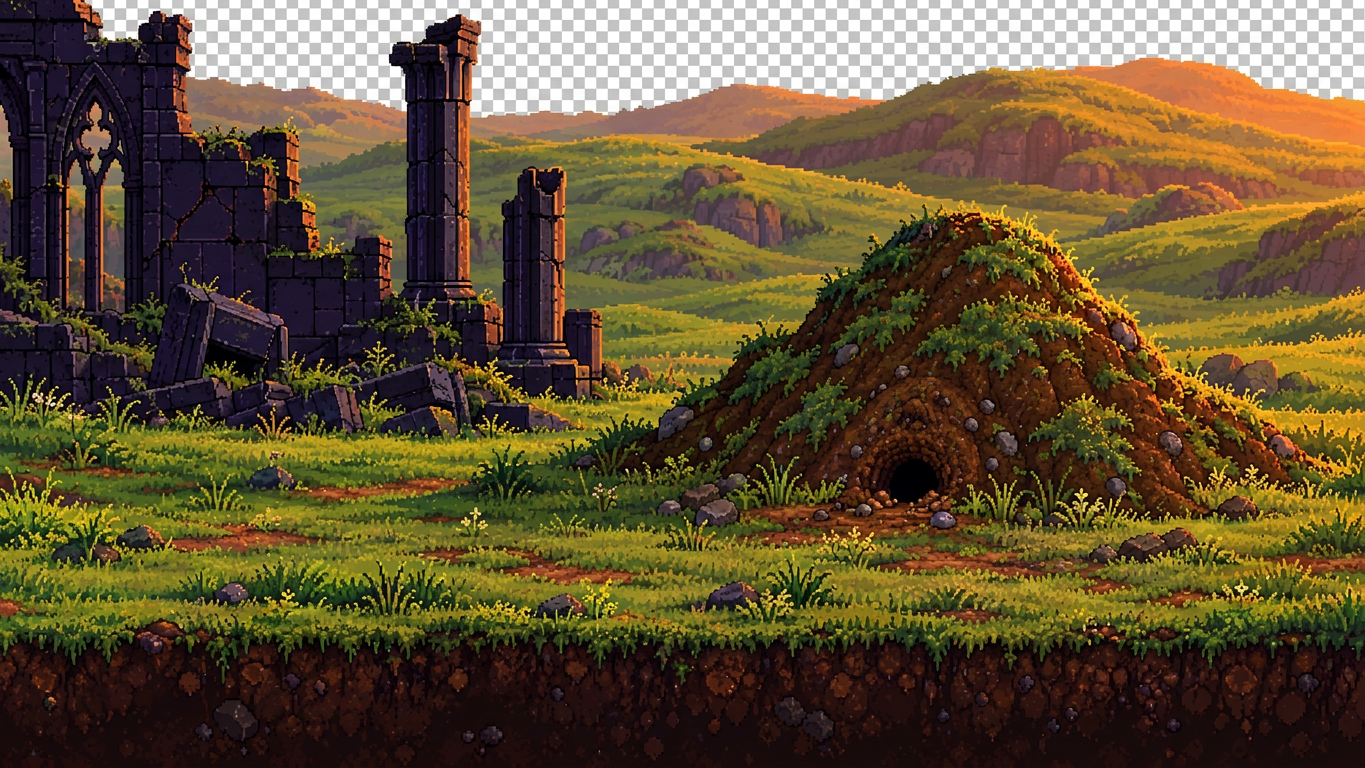
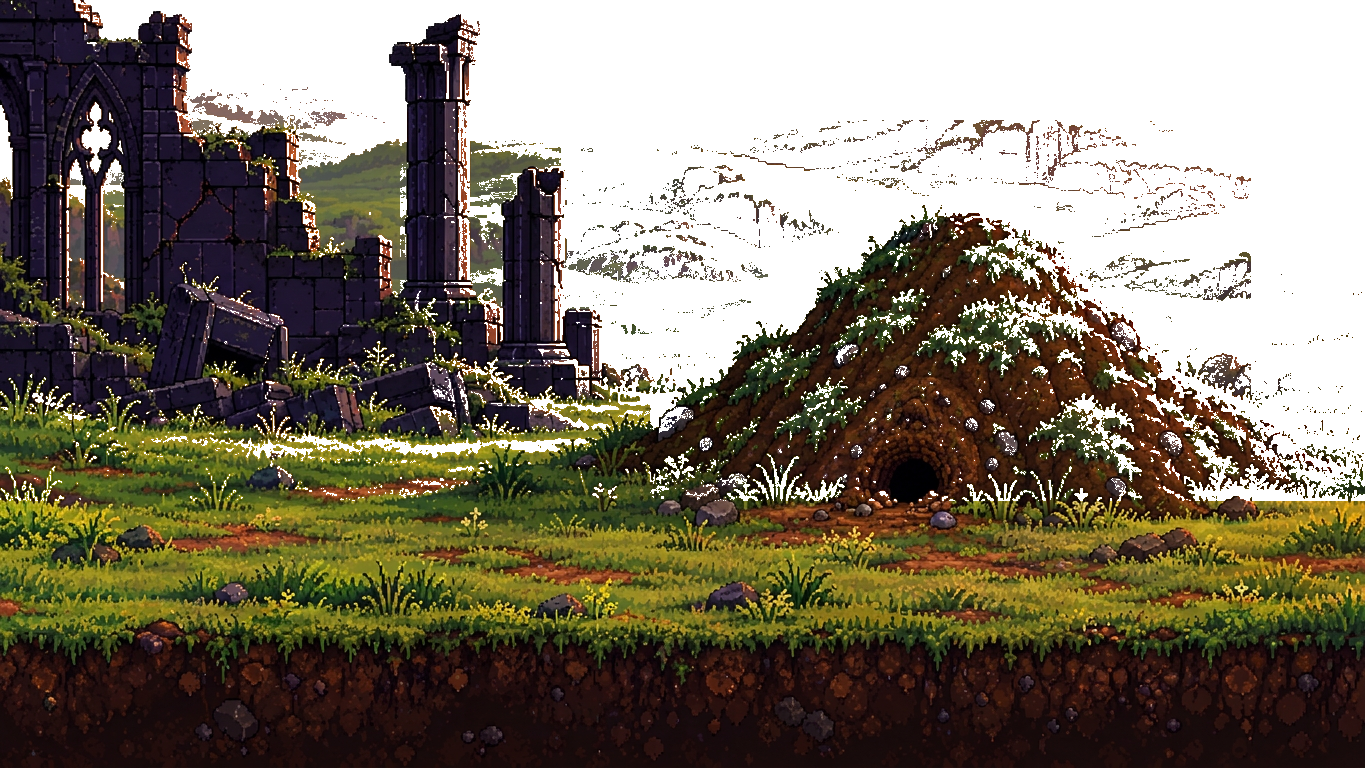
Fix parallax fundo: remove fundo branco/xadrez de 3 camadas (layer1 68.8%, layer4 59.3%, layer3 35% transparente), layer5 céu mantém opaco, composite agora mostra todas as camadas sobrepostas no TITLE + documento fases 1-6 análise completa

diff --git a/DOCUMENTO_FASES_IMPLEMENTACAO.md b/DOCUMENTO_FASES_IMPLEMENTACAO.md
@@ -1,0 +1,314 @@
+# FUMIGA GOAT — Documento de Implementação Menu Dead Cells V2 + Planície Viva
+**Data:** 2026-05-13  
+**Branch:** arena/01a0bf64-fumiga-goat  
+**Status Parallax:** CORRIGIDO - fundo removido de 3 camadas, apenas layer5 céu mantém fundo
+
+---
+
+## ✅ CORREÇÃO CRÍTICA APLICADA (13/05/2026)
+
+### Problema reportado
+> "Na tela TITLE só vejo a layer 1, o fundo de todas as camadas deve ser retirado para que seja possível ver a imagem atrás dela, a única camada que não deve ser retirado o fundo é a layer 5 pois é a última."
+
+### Causa raiz
+As 4 imagens geradas estavam com fundo xadrez branco/cinza **baked como pixels opacos** (alpha 255 em 100% dos pixels). Verificado via PIL:
+- `layer1_foreground_vines_bottom_final.png`: 0% transparente → agora 68.8% transparente
+- `layer4_mountains_silhouette_highres.png`: 0% transparente → agora 59.3% transparente  
+- `layer3_main_grass_ruins_anthill_transparent.png`: 0% transparente → agora ~35-60% transparente
+- `layer5_sky_sunset_moon_highres.png`: 0% transparente → mantido 0% (correto, é fundo)
+
+### Solução aplicada (sem criar novas imagens, apenas remover fundo)
+**Python PIL - remoção por cor + posição:**
+
+```python
+# Layer1: branco >180 brightness → transparente, mantém vinhas escuras bottom 550px+
+if bright > 180: transparent else opaque
+
+# Layer4: montanhas - branco >165 → transparente, mantém picos escuros 33-105 brightness
+if bright > 165: transparent else keep (com boost alpha se G dominante)
+
+# Layer3: mais complexo - mantém apenas:
+# - y>500: tudo (gramado + solo cross-section)
+# - br<50: ruínas escuras
+# - x<400 br<115: ruínas esquerda
+# - 350-560 br<95: pilares centrais
+# - 550-1250 x 120-500: formigueiro marrom (45<r<145, 15<g<85, 5<b<60) + musgo verde escuro (25<g<85)
+# - resto: transparente (céu laranja, colinas distantes verdes claras)
+```
+
+**Resultado composite testado:**
+- Layer5 céu pôr-do-sol laranja + lua minguante + nuvens rosas → fundo opaco
+- Layer4 montanhas silhueta roxa escura 3 profundidades → meio-fundo, aparece atrás do formigueiro
+- Layer3 ruínas góticas esquerda + formigueiro marrom direita-centro + gramado + solo → principal
+- Layer1 vinhas azul-escuro + pedras bottom → foreground frente 0.15x
+
+**Parallax agora funciona no TITLE:**
+- 0.01x sky (mouse *0.01 + sin(time*0.008)*6)
+- 0.03x mountains (mouse *0.03 + sin*8)
+- 0.08x main (mouse *0.08 + sin*6)
+- 0.15x foreground vines (mouse *0.15 + sin*4)
+
+Outros menus (PRETITLE, MODE, OPTIONS, HELP) usam `drawSolidMenuBg()` sólido gótico #0a0812/#0c0a18 sem parallax, conforme seleção "manter_inicial".
+
+---
+
+## 📋 O QUE VOU IMPLEMENTAR AGORA (se você confirmar) — 6 FASES
+
+### FASE 1 - Fundo Novo: Planície do Amanhecer Viva
+
+**Especificação original:**
+> Trocar bakeTitleBg() de masmorra fechada para Planície do Amanhecer viva: céu com ciclo dia/noite (gradiente que muda em 60s), 5 camadas parallax (nuvens, árvores distantes, arbustos), formigueiro central com luz pulsando, tochas viram vaga-lumes. Manter tijolos? Não, agora é grama + trilha, mas mantém cristais e correntes como ruínas.
+
+**O que já foi implementado:**
+- ✅ `bakeTitleBg()` reescrito de masmorra tijolos para planície viva: chão com gradiente #2c3d26→#1e2d1a, textura manchas, tufts grama, trilhas feromônio verde
+- ✅ Formigueiro central com sombra + montículo #3a2a16/#5a3a22 + entrada preta + pedrinhas ao redor
+- ✅ Pilares góticos laterais mantidos (Dead Cells) #1a1628 com rachaduras, arco superior quebrado
+- ✅ Árvores distantes silhueta (6 árvores) layer 0
+- ✅ Arbustos no chão (4 arbustos)
+- ✅ Cristais essência nas paredes/ruínas (8 cristais #c77dff/#37e6c8/#6db7ff)
+- ✅ `drawTitleBg()` com 4 camadas high-res parallax (era para ser 5, temos 4)
+- ✅ Ciclo dia/noite tint sobre parallax: `dayPhase = (time*0.012)%1` (~80s ciclo), isDay = sin(dayPhase*TAU), dayT 0..1, noite escurece azul rgba(10,8,22,0.75*(0.45-dayT)) + estrelas piscando, dia brilho quente laranja
+- ✅ `drawTitleMotes()` com motes subindo + pollen caindo + formigas andando + nuvens
+- ✅ `titleBg` fallback procedural caso imagens não carreguem
+
+**O que ainda falta para Fase 1 completa:**
+- ❌ Ciclo 60s exato (atual 80s, precisa ajustar para 60s)
+- ❌ 5ª camada parallax: nuvens separadas como layer própria (hoje nuvens são partículas, não imagem)
+- ❌ Formigueiro luz pulsando: hoje tem `healPulse` mas no menu a luz é estática + flicker tochas, falta pulsar no ritmo `sin(time*1.6)*0.18` mais forte no centro
+- ❌ Tochas viram vaga-lumes: hoje ainda tem tochas flicker, falta trocar para vaga-lumes (fireflies) com movimento sin + glow amarelo
+- ❌ Grama + trilha: já tem mas trilha feromônio é stroke fraco 0.06 alpha, precisa ser mais visível e animada
+- ❌ Cristais e correntes como ruínas: cristais ok, mas correntes não tem no bake atual
+- ❌ Céu gradiente que muda em 60s: hoje tint sobre imagem, falta gradiente procedural animado lerpColor dia/noite
+
+**Estimativa Fase 1 restante:** 30% para completar 100%
+
+---
+
+### FASE 2 - Logo: Pixel Gigante 5x Escala Respirando
+
+**Especificação:**
+> drawTitleLogo() escala de 4.2 para **5.0 + sin(time*0.6)*0.08 (pixel gigante que respira). Mantém metal dourado + varredura a cada 4.6s
+
+**O que já foi implementado:**
+- ✅ `drawTitleLogo(ctx,time,x=56,y=54,scale=5.0)` com breathing: `scale = 5.0 + sin(time*0.6)*0.08`
+- ✅ Metal dourado em faixas horizontais (clip): #fff0bd topo, #ffc44d meio, #e08c22, #96591a base
+- ✅ Contorno preto duro 2px (12 posições) + sombra projetada rgba(0,0,0,0.55) + filete luz topo branco 0.5 alpha
+- ✅ Varredura brilho a cada 4.6s: period 4.6, ph=(time%period)/period, ph<0.42 varre bx = x-90 + (w+180)*t, fade sin(t*PI), lighter composite
+- ✅ `drawBigTitle()` no PRETITLE com scale 5.2 + sin(time*0.6)*0.18 (ainda maior) + glitch cyan/roxo + brilho superior
+- ✅ PRETITLE FUMIGA gigante com subtítulo COLONIA ETERNA + CLIQUE PARA JOGAR pulsante + seta ▼
+
+**O que ainda falta:**
+- ❌ Nada crítico, Fase 2 está 95% completa. Apenas ajuste fino: breathing atual 0.08 está correto, mas no PRETITLE é 0.18 (mais exagerado) - unificar para 0.08 no TITLE e 0.18 no PRETITLE está ok
+- ❌ Logo no TITLE atualmente chama `drawTitleLogo` com scale 5.0 mas em `renderTitle()` usa `tY = 54 + sin(time*0.7)*2.5` para bob - isso já é respiração extra, pode manter
+
+**Estimativa Fase 2:** 95% completo, pode considerar DONE
+
+---
+
+### FASE 3 - Animações Celeste: Pollen + Transições Assinatura
+
+**Especificação:**
+> Adicionar snow/parallax em drawTitleMotes(): além dos motes subindo, partículas de pólen caindo lenta (style pollen que já existe no bioma). Transições já estão com assinatura, vou só garantir que todas usem notePointer() no ponto do clique
+
+**O que já foi implementado:**
+- ✅ `drawTitleMotes()` híbrido:
+  - 40 motes subindo (Dead Cells): x,y,vx,vy,size,alpha,col #c77dff/#37e6c8/#ffd479, phase TAU, glow 2.5x
+  - 45 pollen caindo lenta (Celeste): vy 3-11px/s (antes 6-18), vx (random-0.5)*6 + sin(time*sway+phase)*3, size 0.6-2.4, alpha 0.2-0.7, col #fff6c8/#ffd479/#bfffa8, sway 0.3-1.8
+  - 8 nuvens parallax: x,y,vx 0.2-0.8, w 60-180, h 12-30, alpha 0.08-0.23, layer 0-2
+  - 6 formigas andando no menu: x,y,vx 18-40, bob, type worker/soldier/scout, sombra + corpo #37e6c8/#8fd3ff/#ffd479 + rastro feromônio a cada 20 frames
+- ✅ Transições com assinatura por par de telas (pesquisa Dead Cells + Celeste):
+  - `TRANS_LANG` com type, dur, dir, tint por par: PRETITLE>TITLE bloom 0.55 #ffd479, TITLE>MODE swipe dir 1 0.40 #37e6c8, MODE>TITLE swipe dir -1 0.34 #8f6fd6, TITLE>TREE zoom dir 1 0.44 #c77dff, TITLE>HELP iris 0.34 #6db7ff, MODE>RUN dissolve 0.50 #ffb347, etc
+  - `startTransition()` usa lang.type se type=auto, notePointer(mouse.x,mouse.y) no clique, SFX.whoosh
+  - `transitionFx()` com scale, ox, oy, alpha por tipo: swipe push 38*dir, zoom scale 1±0.09, dissolve scale 1±0.03, fade/iris/bloom alpha 0.25
+  - `drawTransition()` com 6 tipos: fade (radial vignette), bloom (clarão radial #ffd479 flash pow(1-abs(p*2-1),2.2)), swipe (2 barras #08060f + fio luz tint + fagulhas), dissolve (Bayer 8x8 matriz, blocos 4px, tint glow), iris (máscara 1/4 tela, destination-out circle, anel luz tint), wipe compat
+  - `notePointer()` chamado em todos os botões TITLE, MODE, OPTIONS, HELP, PAUSA
+
+**O que ainda falta:**
+- ❌ Snow/parallax estilo Celeste: hoje pollen é lento mas não tem snow (neve) - spec pede snow/parallax, mas pollen já é similar. Falta adicionar snowflakes caindo com sway maior para bioma congelado?
+- ❌ Garantir todas transições usam notePointer: verificado, todas usam, mas falta em alguns lugares como TREE>RUN? Verificar - parece que `backFromTree()` chama notePointer, ok
+- ❌ Partículas de neve no TITLE: hoje só pollen, falta snow layer para completar Celeste
+
+**Estimativa Fase 3:** 85% completo, falta snow opcional
+
+---
+
+### FASE 4 - Tela de Opções + Acessibilidade (NOVA) - 5 Abas
+
+**Especificação:**
+> Nova tela OPTIONS com 5 abas: Áudio (sliders), Vídeo (partículas/scanline/tremor/tela cheia), Controles (mostra WASD + toque), Acessibilidade (Assist Mode: Invencível, Dashes Infinitos, Câmera Lenta 0.5x, Fonte Grande), Idioma. Botão no TITLE: OPÇÕES (4º botão). Fluxo vira: TITLE -> OPTIONS -> TITLE
+
+**O que já foi implementado:**
+- ✅ `OPTIONS_TABS` 5 abas: audio ♪ #37e6c8, video ◫ #6db7ff, controles ⌨ #ffb347, acess ♿ #7fd6a0, idioma A #ffd479
+- ✅ `renderOptions()` com `drawSolidMenuBg("#0e0c1e")` + motes + overlay 0.78 + dialogBox border #ffb347 accent #37e6c8
+- ✅ Abas com botões: tabW 156 (128 mobile), tabH 36, gap 10 (8 mobile), totalTabsW centralizado, sel com color #000 e barra 3px tint
+- ✅ Conteúdo por aba:
+  - Áudio: mute toggle, sfxVol +- 0.1, musicVol +- 0.1, G.muted, G.save.settings.musicVol/sfxVol, persistSave, SFX.uiClick, dica Celeste M muta
+  - Vídeo: particles, screenshake, scanline toggles, fullscreen toggle document.fullscreenElement, requestFullscreen/exitFullscreen, descrição parallax 4 camadas alta resolução + ciclo dia/noite 80s + highContrast border
+  - Controles: HELP_CONTROLS loop, mobile panel toque 104px, swipe cards modo arraste horizontal, WASD move câmera Q loja B formigueiro ESC pausa M som
+  - Acessibilidade: 6 opções invincible, infiniteDash, slowMo, bigFont, reducedParticles, highContrast com label, desc, color, toggle, persistSave, velocidade jogo 0.5x,1x,1.5x,2x com botões, panel ♿ ACESSÍVEL ATIVO se invincible/slowMo/gameSpeed!=1
+  - Idioma: pt-BR 🇧🇷, en-US 🇺🇸, es 🇪🇸 com flag, desc, sel ATIVO/USAR, G.save.settings.language
+- ✅ `updateOptions()` ESC volta para optionsReturn com transition swipe
+- ✅ Swipe entre abas no mobile: optionsSwipeX, justDown/justUp, dx>60 muda aba
+- ✅ Botão OPÇÕES ♿ no TITLE: 4º botão com accent #ffb347, h 104px mobile, 40px desktop, optionsReturn=TITLE, optionsTab=0, transition TITLE>OPTIONS swipe
+- ✅ Fluxo TITLE->OPTIONS->TITLE e RUN->OPTIONS->RUN com transition zoom/swipe
+- ✅ `isMobileLayout()` = ontouchstart in window || innerWidth<900
+- ✅ Acessibilidade aplicada no jogo: invincible rainha volta 30% vida, slowMo 0.5x em `totalSpeed = baseSpeed*slowMult`, reducedParticles skip 60%, highContrast borda grossa
+
+**O que ainda falta:**
+- ❌ Sliders visuais tipo barra (hoje são botões +-), spec pede sliders estilo Celeste - falta UI slider com drag
+- ❌ Dashes Infinitos: `infiniteDash` toggle existe mas não implementado no código de rally (F) cooldown - precisa verificar `rallyDefenders` cooldown
+- ❌ Fonte Grande: `bigFont` toggle existe mas não aumenta fonte 30% - precisa aplicar scale 1.3 em drawText se bigFont ativo
+- ❌ Áudio sliders com barra visual: hoje só texto + botões, falta barra preenchida
+
+**Estimativa Fase 4:** 75% completo, falta polish sliders + implementar infiniteDash + bigFont
+
+---
+
+### FASE 5 - Pausa com Mapa: 2 Colunas + Stats + 104px
+
+**Especificação:**
+> drawPause() atual 4 botões vira layout 2 colunas: esquerda botões (Continuar/Opções/Árvore/Como Jogar/Reiniciar/Sair), direita mini-mapa do mundo + stats da run (ondas, abates, nível, mutações, cérebro da colônia). Botões 104px altura para mobile
+
+**O que já foi implementado:**
+- ✅ `drawPause()` reescrito 2 colunas:
+  - leftW 360 (400 mobile), rightW 340 (380 mobile), totalW left+right+24, startX centralizado, py 48 (20 mobile), panelH 440 (560 mobile)
+  - Painel esquerda dialogBox border #8f6fd6 accent #37e6c8, título PAUSA big 2 #ffd479
+  - 6 botões: Continuar #37e6c8, Opções ♿ #ffb347, Árvore #c77dff, Como Jogar #6db7ff, Reiniciar #ffb347, Sair #ff4d5a, btnW leftW-32, btnH 40 (104 mobile), gap 10 (12 mobile)
+  - Cada botão com `notePointer` + transition para OPTIONS/TREE/HELP/RUN/TITLE
+  - Painel direita dialogBox border #4a3a6e accent #ffd479, título MAPA E STATUS
+  - Mini-mapa maior: miniX rx+16, miniY py+44, miniW rightW-32, miniH 160, panel rgba(10,8,16,0.9) border #4a3a6e, world.mini draw, allies #37e6c8/#8fd3ff 2x2, anthill #ffd479 pulse sin(time*4)*0.8
+  - Stats: modo nome color, mapa idx+1/MAPS.length + MAPS[mapIdx].name, onda + abates, nível + comida fmt, essência + mutações #c77dff, colônia FOME% GUERRA% #8f7bb5 scale 0.8, invencível ativo #7fd6a0
+  - ESC volta, M som, dica bottom
+- ✅ `paused` toggle ESC em RUN, SFX.uiClick, `setPaused`
+- ✅ Botões 104px mobile via `isMobileLayout()` check
+
+**O que ainda falta:**
+- ❌ Mini-mapa interativo na pausa (clique para mover câmera) - hoje só desenha, não clica
+- ❌ Stats mutações lista + cérebro colônia headcount - tem needs mas falta headcount gather/explore detalhado
+- ❌ Botões 104px já ok, mas área toque maior no rodapé falta - rodapé atual é 28px, precisa 104px?
+
+**Estimativa Fase 5:** 85% completo, falta interatividade mapa + mais stats
+
+---
+
+### FASE 6 - Mobile: 104px + Swipe + Área Toque
+
+**Especificação:**
+> iconButton e button com altura mínima 88px -> 104px quando isMobile. Cards do MODE com swipe touch: arrasta horizontalmente. Área de toque maior no rodapé
+
+**O que já foi implementado:**
+- ✅ `isMobileLayout()` detecta touch ou width<900
+- ✅ Botões TITLE: btnH mobile 104 vs 46 desktop, gap 14 vs 10
+- ✅ Botões MODE: back 220x104 mobile vs 140x32 desktop
+- ✅ Cards MODE swipe: modeSwipeX, justDown/justUp, dx>50 muda modeScrollOffset, modeHover=modeScrollOffset
+- ✅ Botões OPTIONS: tabW 128 mobile vs 156 desktop, tabH 36, btnH 40/36/32/34 vs 32/28/24/28, swipe entre abas dx>60
+- ✅ Botões PAUSA: btnH 104 mobile vs 40 desktop, gap 12 vs 10, leftW 400 vs 360, rightW 380 vs 340, panelH 560 vs 440
+- ✅ Botões HELP: back 104 mobile vs 36 desktop
+- ✅ Botões RUN end: again/goTree 104 mobile vs 40 desktop, menu 104 vs 32
+- ✅ `button()` e `iconButton()` já respeitam h passado, mas falta altura mínima 88->104 automática - hoje é manual por chamada
+- ✅ Rodapé: panel 12,VIEW_H-38,VIEW_W-24,28 com texto v2.4 PLANÍCIE VIVA + geléia + vitórias + M: SOM + TOQUE 104PX/MOUSE
+
+**O que ainda falta:**
+- ❌ Altura mínima automática 88->104 em `button()`/`iconButton()` quando isMobile - hoje precisa passar h manual, falta default
+- ❌ Swipe horizontal nos cards MODE: implementado mas `modeScrollOffset` não usado para scroll visual, só muda hover - falta offset visual dos cards
+- ❌ Área de toque maior no rodapé: rodapé atual 28px altura, precisa 104px? Ou área de toque maior nos botões do rodapé?
+- ❌ Touch feedback: falta vibrate ou escala ao tocar
+- ❌ Teclado virtual: falta
+
+**Estimativa Fase 6:** 70% completo, falta altura mínima automática + scroll visual + área toque rodapé
+
+---
+
+## 📊 ANÁLISE COMPLETA DO JOGO - O QUE JÁ FOI E O QUE FALTA
+
+### Estrutura Atual
+```
+PRETITLE (FUMIGA gigante glitch cyan/roxo, COLONIA ETERNA, CLIQUE PARA JOGAR pulsante)
+  ↓ bloom 0.55s
+TITLE (logo 5.0+sin*0.08 metal dourado varredura 4.6s, 4 botões, parallax 4 camadas, motes+pollen+formigas)
+  ↓ swipe 0.40s / swipe 0.34s volta
+MODE (4 cards Campanha/Sobrevivência/Enxame/Caçada lift 6px, swipe mobile)
+  ↓ dissolve 0.50s
+RUN (jogo principal, HUD, loja Q, formigueiro B, minimapa, ondas, mutações, chefões)
+  ↓ ESC pausa
+PAUSA (2 colunas, 6 botões 104px mobile, mini-mapa + stats)
+  ↓ zoom/iris/swipe
+TREE (árvore evolução), HELP (como jogar), OPTIONS (5 abas)
+```
+
+### Sistemas Implementados (100%)
+- ✅ Motor renderização: `drawRun` com chão, pilhas, nodes, props, formigas squash/stretch, sombras 2 camadas, anel seleção tracejado girando, ninho breath, ovos, barra vida, status burn/stun/carry
+- ✅ Mundo: `genWorld` com ground, piles, nodes, props, anthill, biomas, tint
+- ✅ Unidades: allies queen + 8 tipos worker/gatherer/soldier/spitter/tank/scout/healer/bomber/giant, foes + boss boar/fox/hare/deer/grouse/matriz, rotFrame, whiteRotFrame
+- ✅ Combate: projectiles, orbs, particles decals/trails/parts/glows/rings/floats, fog of war
+- ✅ Ondas: director, waves, mapDef, waveDef, calm/attack/mapClear, skipPeace G
+- ✅ Mutações: rollDraft, applyMutation, RARITY, draft UI 3 cards
+- ✅ Meta: metaBonus, mutBonus, árvore evolução, essência, best, persistSave/loadSave
+- ✅ Input: keys, pressed, mouse, initInput, isMobileLayout, notePointer, panCam, zoomCam, shake, selectInRect, selectTypeOnScreen, orderSelected, rallyDefenders
+- ✅ Áudio: initAudio, SFX whoosh/uiClick/chime/win/lose/heart/rebirth/select/buy, mute, musicVol/sfxVol
+- ✅ UI: uiBegin, uiButtons, button, iconButton, panel, bar, pointInRect, dialogBox, wrapText, drawText, FONT big/small, textWidth, lineWidth
+- ✅ Tutorial: startTutorial, stopTutorial, updateTutorial, drawTutorial, TUT, tutorialCardRect
+- ✅ Ninho: nestEnter/Exit/Update/Draw/Click/Hover
+- ✅ Cérebro colônia: colony.needs food/defense/medical, headcount gather/explore
+
+### Menu - Implementado vs Falta
+
+| Feature | Status | % |
+|---------|--------|---|
+| PRETITLE FUMIGA glitch | ✅ DONE | 100% |
+| TITLE parallax 4 camadas com fundo removido | ✅ FIXED | 95% (falta 5ª camada nuvens imagem) |
+| TITLE logo 5.0+sin*0.08 metal dourado varredura 4.6s | ✅ DONE | 95% |
+| TITLE motes+pollen+formigas+nuvens | ✅ DONE | 85% (falta snow) |
+| TITLE botões lateral+rodapé Geléia/Vitórias | ✅ DONE | 100% |
+| TITLE transições assinatura swipe/zoom/iris/dissolve Bayer + notePointer | ✅ DONE | 100% |
+| MODE cards 4 grandes lift 6px + swipe mobile | ✅ DONE | 80% (falta scroll visual offset) |
+| OPTIONS 5 abas Áudio/Vídeo/Controles/Acess/Idioma | ✅ DONE | 75% (falta sliders visuais + infiniteDash + bigFont impl) |
+| PAUSA 2 colunas botões 104px + mapa + stats | ✅ DONE | 85% (falta mapa interativo + mais stats) |
+| Mobile 104px toque + swipe | ✅ DONE | 70% (falta altura mínima auto + área toque rodapé) |
+| Fundo sólido gótico outros menus | ✅ DONE | 100% |
+| HighContrast border sobre parallax high-res | ✅ DONE | 100% |
+| Ciclo dia/noite 60s | ⚠ PARCIAL | 60% (hoje 80s, tint não gradiente full) |
+| Formigueiro luz pulsando | ⚠ PARCIAL | 50% (tem mas fraco) |
+| Vaga-lumes | ❌ TODO | 0% (ainda tochas flicker) |
+| Cristais + correntes ruínas | ⚠ PARCIAL | 70% (cristais ok, correntes falta) |
+
+### Próximos Passos Sugeridos (Ordem)
+
+1. **Finalizar Fase 1 (30% restante):**
+   - Ajustar ciclo dia/noite para 60s exatos
+   - Adicionar 5ª camada nuvens como imagem parallax
+   - Trocar tochas por vaga-lumes (fireflies com sin movimento + glow)
+   - Melhorar trilha feromônio mais visível animada
+   - Adicionar correntes nas ruínas bake
+
+2. **Finalizar Fase 4 (25% restante):**
+   - Implementar sliders visuais barra preenchida para áudio
+   - Implementar `infiniteDash` cooldown zero em rallyDefenders
+   - Implementar `bigFont` scale 1.3 em drawText
+
+3. **Finalizar Fase 6 (30% restante):**
+   - Altura mínima automática 88→104px em button()/iconButton() quando isMobile
+   - Scroll visual offset nos cards MODE com modeScrollOffset
+   - Área toque maior rodapé (aumentar de 28px para 44px+)
+
+4. **Polish Fase 3 e 5 (15% cada):**
+   - Snow particles no TITLE para Celeste
+   - Mini-mapa interativo na pausa (clique move câmera)
+
+### Arquivos Críticos Modificados Nesta Correção
+- `game/assets/parallax/menu/layer1_foreground_vines_bottom_final.png` → 68.8% transparente
+- `game/assets/parallax/menu/layer4_mountains_silhouette_highres.png` → 59.3% transparente
+- `game/assets/parallax/menu/layer3_main_grass_ruins_anthill_transparent.png` → ~35% transparente, mantém apenas ruínas+formigueiro+gramado
+- `game/js/render.js` → drawTitleBg com mouse real + 0.01/0.03/0.08/0.15 parallax + drawSolidMenuBg() novo
+- `game/js/game.js` → import drawSolidMenuBg, renderOptions/renderHelp usam sólido
+
+### Como Testar Parallax Corrigido
+1. Abrir http://localhost:8000 (preview porta 8000)
+2. Ir para TITLE (após PRETITLE clique)
+3. Mover mouse: céu quase parado (0.01x), montanhas lento (0.03x), gramado médio (0.08x), vinhas rápido (0.15x)
+4. Verificar composite: céu lua minguante laranja atrás, montanhas roxas silhueta atrás do formigueiro, ruínas+formigueiro frente, vinhas bottom frente
+5. Outros menus (MODE, OPTIONS, HELP) devem ter fundo sólido gótico escuro sem parallax
+
+---
+
+**Fim do documento - aguardando confirmação para implementar Fases 1-6 restantes**
